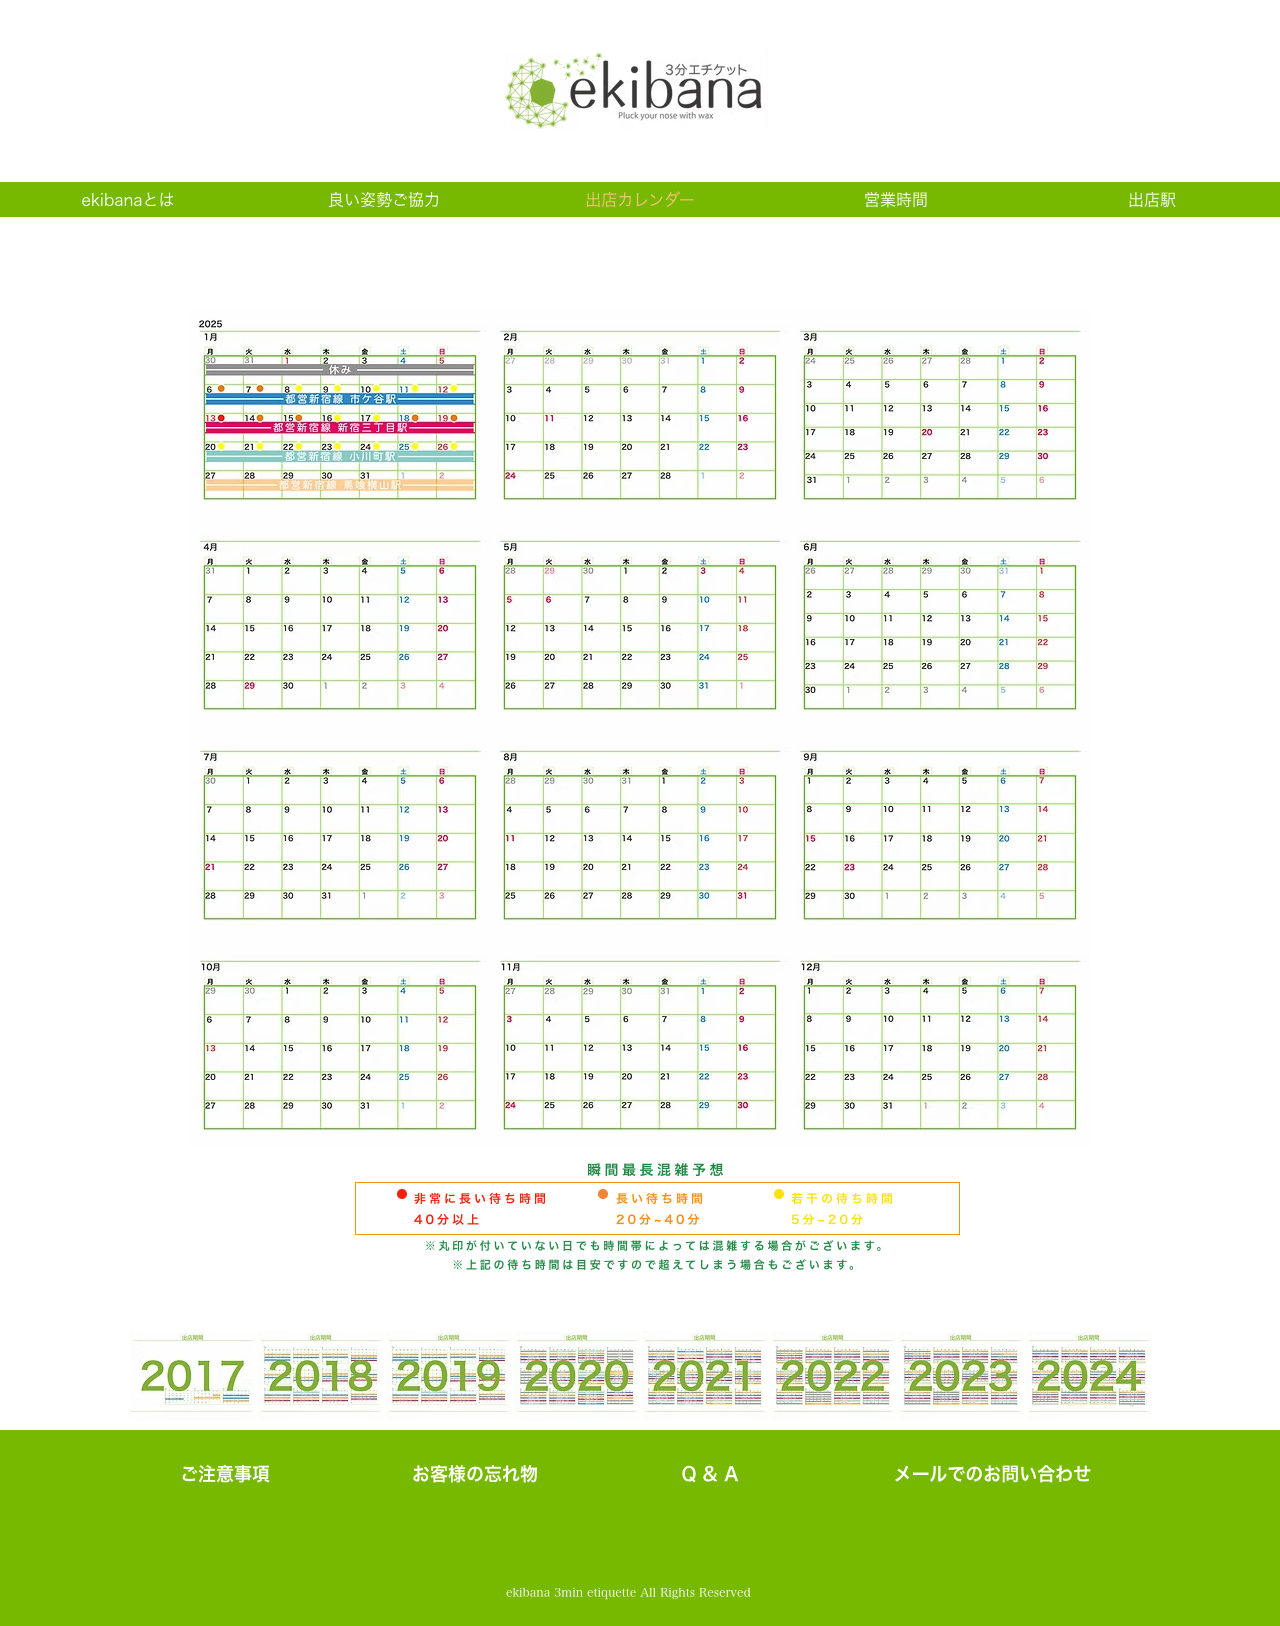
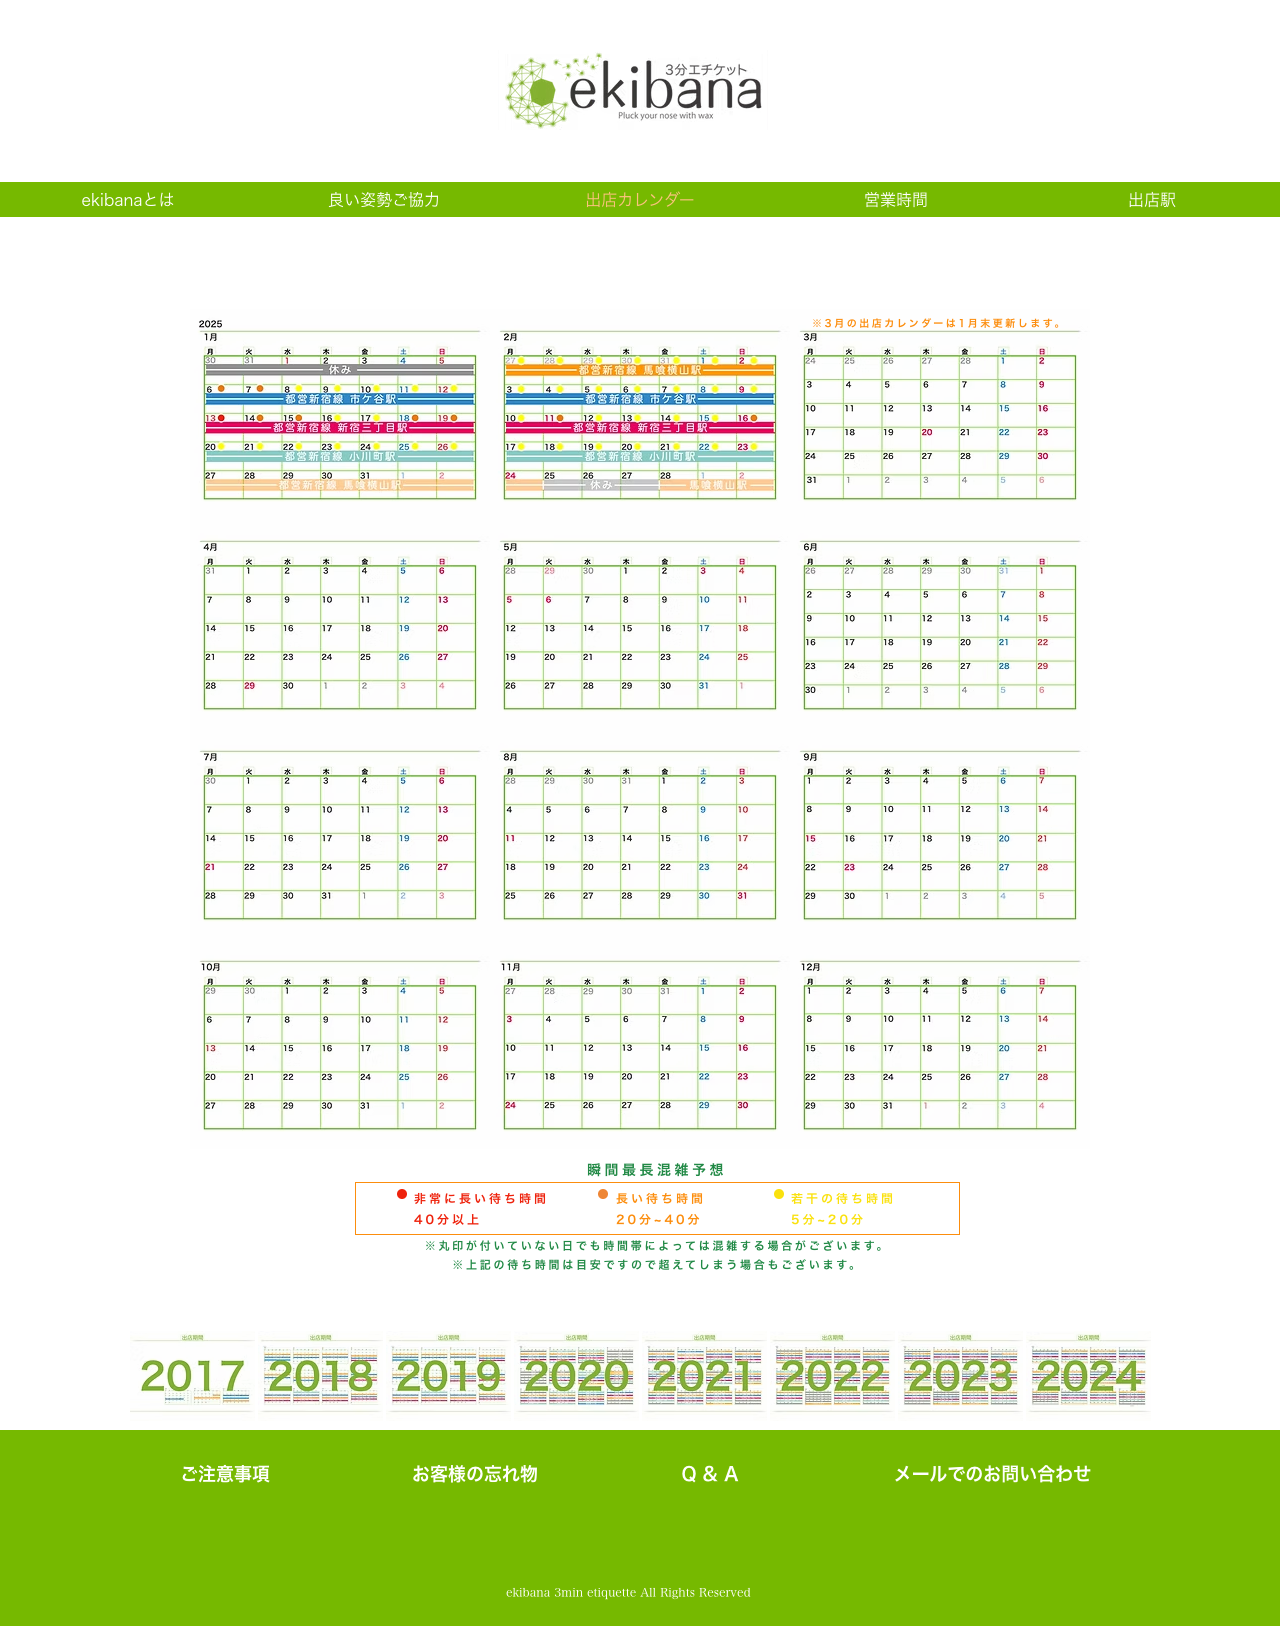
Add February 2025 schedule

Changed region(s): [[0.375, 0.2153, 0.625, 0.3075], [0.75, 0.1845, 0.7812, 0.2153], [0.6562, 0.1845, 0.6875, 0.2153]]

diff --git a/hanage/schedules.ts b/hanage/schedules.ts
@@ -651,6 +651,33 @@ const schedules2025: SchedulesOfMonth = {
       to: "2025-01-31",
     },
   ],
+  2: [
+    {
+      station: stations.bakuroYokoyama,
+      from: "2025-02-01",
+      to: "2025-02-02",
+    },
+    {
+      station: stations.ichigaya,
+      from: "2025-02-03",
+      to: "2025-02-09",
+    },
+    {
+      station: stations.shinjukuSanchome,
+      from: "2025-02-10",
+      to: "2025-02-16",
+    },
+    {
+      station: stations.ogawamachi,
+      from: "2025-02-17",
+      to: "2025-02-23",
+    },
+    {
+      station: stations.bakuroYokoyama,
+      from: "2025-02-24",
+      to: "2025-02-29",
+    },
+  ],
 };
 
 const schedules: SchedulesOfYear = {
